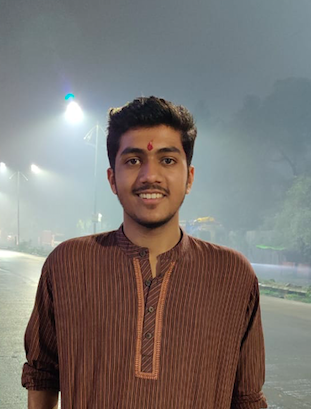
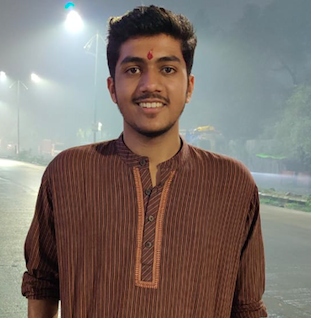
Team member images done.

diff --git a/signup.html b/signup.html
@@ -65,7 +65,7 @@
     }
 
     .navbar .nav-link {
-      color: #dddddd!important;
+      color: #32cd32!important;
     }
 
     .navbar .button-collapse {
@@ -159,7 +159,7 @@
     <!-- Intro -->
     <div class="card card-intro">
 
-      <div class="tempting-azure-gradient card-body white-text rgba-black-light text-center">
+      <div class="dusty-grass-gradient card-body white-text rgba-black-light text-center">
 
         <!--Grid row-->
         <div class="row d-flex justify-content-center">
@@ -189,8 +189,7 @@
 
 
   <!-- Full Page Intro -->
-  <div class="view full-page-intro"
-  style="background-image: linear-gradient(120deg, #333366 50%, #96eabc 90%); background-repeat: no-repeat; background-size: cover;">
+  <div class="view full-page-intro">
     
     <!-- Mask & flexbox options-->
     <div class="mask rgba-black-light d-flex justify-content-center align-items-center">
@@ -198,13 +197,50 @@
       <!-- Content -->
       <div class="container">
         <!--Grid row-->
-        <div class="row wow fadeIn">
-
+        <div class="row fadeIn">
           <!--Grid column-->
-          <div class="col-md-5 mb-4 white-text text-center text-md-left">
+          <div class="col-md-3 col-l-5 mb-4">
 
             <!--Form-->
             <div id="loginbox" class="heavy-rain-gradient">
+
+              <div class="card">
+
+                <section class="px-md-4 mx-md-4 text-center text-lg-left dark-grey-text">
+
+                      <!-- Default form register -->
+                      <form class="text-center" action="#!">
+                      </br>
+                        <p class="h4 mb-4">Sign In</p>
+
+                        <!-- E-mail -->
+                        <input type="email" id="defaultRegisterFormEmail" class="form-control mb-4" placeholder="E-mail">
+
+                        <!-- Password -->
+                        <input type="password" id="defaultRegisterFormPassword" class="form-control" placeholder="Password"
+                          aria-describedby="defaultRegisterFormPasswordHelpBlock">
+                        <small id="defaultRegisterFormPasswordHelpBlock" class="form-text text-muted mb-4">
+                          forgot password?
+                        </small>
+
+                        <!-- Sign up button -->
+                        <button class="dusty-grass-gradient btn btn-info my-4 btn-block" type="submit">Sign in</button>
+                      </form>
+                </section>
+
+                
+              </div>
+            </div>
+          </div>
+          <div class="col-md-2 col-l-5 mb-4">
+          </div>
+          <!--Grid column-->
+          <div class="col-md-2 col-l-5 mb-4">
+          </div>
+          <div class="col-md-4 mb-4 white-text text-center text-md-left">
+
+            <!--Form-->
+            <div id="loginbox" class="">
 
               <div class="card ">
 
@@ -244,7 +280,7 @@
                         </small>
 
                         <!-- Sign up button -->
-                        <button class="aqua-gradient btn btn-info my-4 btn-block" type="submit">Sign Up</button>
+                        <button class="dusty-grass-gradient btn btn-info my-4 btn-block" type="submit">Sign Up</button>
 
                         <hr>
 
@@ -261,49 +297,7 @@
             </div>
           </div>
           <!--Grid column-->
-          <div class="col-md-2 col-l-5 mb-4">
-            <div id="loginbox" class="heavy-rain-gradient">
-
-              <div class="card">
-
-                <section class="px-md-4 mx-md-4 text-center text-lg-left dark-grey-text">
-                </section></div></div>
-          </div>
-          <!--Grid column-->
-          <div class="col-md-5 col-l-5 mb-4">
-
-            <!--Form-->
-            <div id="loginbox" class="heavy-rain-gradient">
-
-              <div class="card">
-
-                <section class="px-md-4 mx-md-4 text-center text-lg-left dark-grey-text">
-
-                      <!-- Default form register -->
-                      <form class="text-center" action="#!">
-                      </br>
-                        <p class="h4 mb-4">Sign In</p>
-
-                        <!-- E-mail -->
-                        <input type="email" id="defaultRegisterFormEmail" class="form-control mb-4" placeholder="E-mail">
-
-                        <!-- Password -->
-                        <input type="password" id="defaultRegisterFormPassword" class="form-control" placeholder="Password"
-                          aria-describedby="defaultRegisterFormPasswordHelpBlock">
-                        <small id="defaultRegisterFormPasswordHelpBlock" class="form-text text-muted mb-4">
-                          forgot password?
-                        </small>
-
-                        <!-- Sign up button -->
-                        <button class="dusty-grass-gradient btn btn-info my-4 btn-block" type="submit">Sign in</button>
-                      </form>
-                </section>
-
-                
-              </div>
-            </div>
-          </div>
-
+          
         </div>
         <!--Grid column-->
 

diff --git a/templates/signup-page.html b/templates/signup-page.html
@@ -66,16 +66,16 @@
     }
 
     .top-nav-collapse {
-      background-color: #3f51b5 !important;
+      background-color: #000000 !important;
     }
 
     .navbar:not(.top-nav-collapse) {
-      background: transparent !important;
+      background-color: #000000  !important;
     }
 
     @media (max-width: 768px) {
       .navbar:not(.top-nav-collapse) {
-        background: #3f51b5 !important;
+        background: #000000 !important;
       }
     }
     @media (min-width: 800px) and (max-width: 850px) {
@@ -107,35 +107,56 @@
   <header>
 
     <!-- Navbar -->
-    <nav class="navbar navbar-expand-lg navbar-dark fixed-top scrolling-navbar">
+    <nav class="navbar navbar-expand-lg fixed-top navbar-dark fixed-top scrolling-navbar">
       <div class="container">
-        <a class="navbar-brand" href="#">
-          <strong>MDB</strong>
+        <a class="navbar-brand waves-effect" href="https://mdbootstrap.com/docs/jquery/" target="_blank">
+          <img src="https://mdbootstrap.com/wp-content/uploads/2018/06/logo-mdb-jquery-small.png" alt="Logo">
         </a>
-        <button class="navbar-toggler" type="button" data-toggle="collapse" data-target="#navbarSupportedContent-7"
-          aria-controls="navbarSupportedContent-7" aria-expanded="false" aria-label="Toggle navigation">
+
+        <!-- Collapse -->
+        <button class="navbar-toggler" type="button" data-toggle="collapse" data-target="#navbarSupportedContent"
+          aria-controls="navbarSupportedContent" aria-expanded="false" aria-label="Toggle navigation">
           <span class="navbar-toggler-icon"></span>
         </button>
-        <div class="collapse navbar-collapse" id="navbarSupportedContent-7">
+
+        <!-- Links -->
+        <div class="collapse navbar-collapse" id="navbarSupportedContent">
+
+          <!-- Left -->
           <ul class="navbar-nav mr-auto">
-            <li class="nav-item active">
-              <a class="nav-link" href="#">Home
-                <span class="sr-only">(current)</span>
+            <li class="nav-item">
+              <a class="nav-link waves-effect " href="https://mdbootstrap.com/docs/jquery/" target="_blank">jQuery</a>
+            </li>
+            <li class="nav-item">
+              <a class="nav-link waves-effect" href="https://mdbootstrap.com/docs/angular/" target="_blank">Angular</a>
+            </li>
+            <li class="nav-item">
+              <a class="nav-link waves-effect" href="https://mdbootstrap.com/docs/react/" target="_blank">React</a>
+            </li>
+            <li class="nav-item">
+              <a class="nav-link waves-effect" href="https://mdbootstrap.com/docs/vue/" target="_blank">Vue</a>
+            </li>
+          </ul>
+ 
+          <!-- Right -->
+          <ul class="navbar-nav nav-flex-icons">
+            <li>
+            <li class="nav-item">
+              <a href="https://github.com/mdbootstrap/bootstrap-material-design" class="nav-link waves-effect"
+                target="_blank">
+                <i class="fab fa-github"></i>
               </a>
             </li>
             <li class="nav-item">
-              <a class="nav-link" href="#">Link</a>
-            </li>
-            <li class="nav-item">
-              <a class="nav-link" href="#">Profile</a>
+              <a href="https://mdbootstrap.com/docs/jquery/newsletter/"
+                class="nav-link border border-light rounded waves-effect mr-2" target="_blank">
+                <i class="fas fa-envelope mr-1"></i>Newsletter
+              </a>
             </li>
           </ul>
-          <form class="form-inline">
-            <div class="md-form my-0">
-              <input class="form-control mr-sm-2" type="text" placeholder="Search" aria-label="Search">
-            </div>
-          </form>
+
         </div>
+
       </div>
     </nav>
     <!-- Navbar -->
@@ -223,7 +244,7 @@
                       <div class="row pb-4 d-flex justify-content-center mb-4">
 
                         <h4 class="mt-3 mr-4">
-                          <strong>Login with</strong>
+                          <strong>Sign</strong>
                         </h4>
 
                         <div class="inline-ul text-center d-flex justify-content-center">

diff --git a/index.html b/index.html
@@ -498,7 +498,7 @@
           <!--First column-->
           <div class="col-lg-3 col-md-6 mb-5">
             <div class="avatar">
-              <img src="https://mdbootstrap.com/img/Photos/Avatars/img%20(5).jpg" class="z-depth-1">
+              <img src="team mem/manjot.png" class="z-depth-1" height="270" width="230">
             </div>
             <h4 class="font-weight-bold my-4">Manjot Singh Siddhu</h4>
             <p class="grey-text">Team Leader</p>
@@ -508,7 +508,7 @@
           <!--Second column-->
           <div class="col-lg-3 col-md-6 mb-5">
             <div class="avatar">
-              <img src="https://mdbootstrap.com/img/Photos/Avatars/img%20(12).jpg" class="z-depth-1">
+              <img src="team mem/shrey.jpeg" class="z-depth-1" height="270" width="230">
             </div>
             <h4 class="font-weight-bold my-4">Shrey Limbani</h4>
             <p class="grey-text">Team member</p>
@@ -518,7 +518,7 @@
           <!--Third column-->
           <div class="col-lg-3 col-md-6 mb-5">
             <div class="avatar">
-              <img src="https://mdbootstrap.com/img/Photos/Avatars/img%20(8).jpg" class="z-depth-1">
+              <img src="team mem/sid.jpeg" class="z-depth-1" height="270" width="230">
             </div>
             <h4 class="font-weight-bold my-4">Siddharth Patel</h4>
             <p class="grey-text">Team member</p>
@@ -528,7 +528,7 @@
           <!--Third column-->
           <div class="col-lg-3 col-md-6 mb-5">
             <div class="avatar">
-              <img src="https://mdbootstrap.com/img/Photos/Avatars/avatar-11.jpg" class="z-depth-1">
+              <img src="team mem/aniket.jpeg" class="z-depth-1" height="270" width="230">
             </div>
             <h4 class="font-weight-bold my-4">Aniket Ranjan</h4>
             <p class="grey-text">Team member</p>
@@ -548,7 +548,7 @@
           <!--Third column-->
           <div class="col-lg-3 col-md-6 mb-5">
             <div class="avatar">
-              <img src="img/morty.png" class="z-depth-1">
+              <img src="team mem/kiru.jpeg" class="z-depth-1" height="270" width="230">
             </div>
             <h4 class="font-weight-bold my-4">Kirthana</h4>
             <p class="grey-text">Team member</p>
